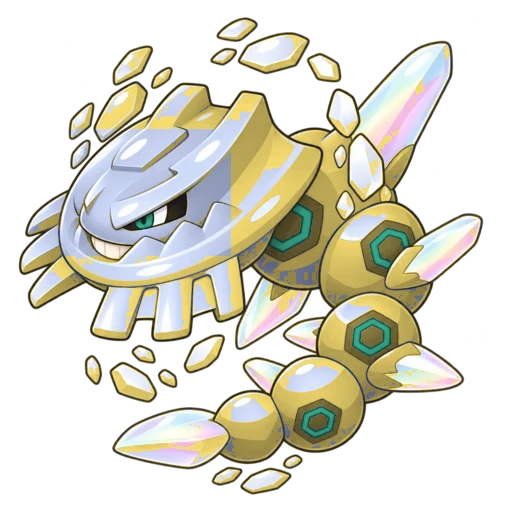
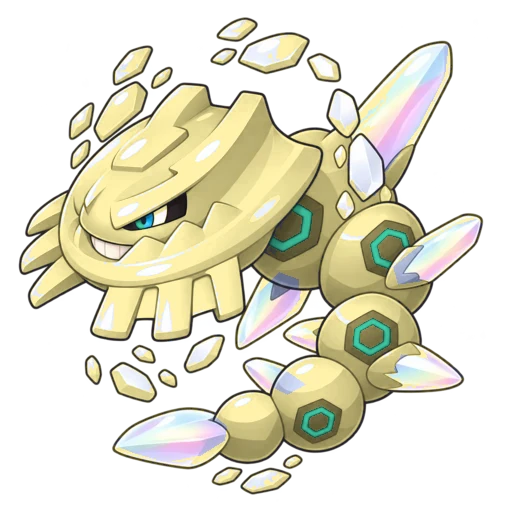
Correct Steelix and Mega Steelix Shiny gold palettes without changing their approved drawings

diff --git a/app.js b/app.js
@@ -1,31 +1,31 @@
-import {questsView,questPreview,questStates,questSummary,pinQuest} from './quests.js?v=20261111-shiny29';
-import {guildView,normalizeGuild,guildLevel,contributeGuild,selectExpedition} from './guild.js?v=20261111-shiny29';
-import {arenaView,arenaRank} from './arena.js?v=20261111-shiny29';
-import {worldEventPanel,eventCountdown,currentEvent} from './world-events.js?v=20261111-shiny29';
-import {huntingPanel,setHuntTarget} from './hunting.js?v=20261111-shiny29';
-import {expandedSpecies} from './engine-data.js?v=20261111-shiny29';
-import {researchScore,researchReady,researchPanel,journalSummary,normalizeResearch} from './journal.js?v=20261111-shiny29';
-import {masteryPanel,masteryProgress,bondStyle,chooseBondStyle,companionTitle} from './mastery.js?v=20261111-shiny29';
-import {appStatus,installApp,applyAppUpdate,installPanel} from './pwa.js?v=20261111-shiny29';
-import {artworkEntries,galleryEntries,chibiLabel,resetItemsAndGold} from './developer-tools.js?v=20261111-shiny29';
-import {chibiSprite} from './chibi-art.js?v=20261111-shiny29';
-import {battleForms,formsFor,displayCreature,supportsGmax} from './forms.js?v=20261111-shiny29';
-import {trainerPortrait} from './trainer-portraits.js?v=20261111-shiny29';
-import {trainerOptions,normalizeTrainer,trainerName,presetTrainer} from './trainer-customization.js?v=20261111-shiny29';
-import {trainerEditor} from './trainer-editor.js?v=20261111-shiny29';
-import {inventoryView,abilityGuide} from './inventory-ui.js?v=20261111-shiny29';
-import {itemCatalog,abilityCatalog,ensureInventory,itemCount,addItem,buyItem,equipItem,currentHP,remainingPP,ppMaximum,itemContext,grantTestSupplies} from './items.js?v=20261111-shiny29';
-import {abilityOptions,validAbility,evolutionOptions,levelXP} from './progression.js?v=20261111-shiny29';
-import {fullCaptureChance,legacyBalls} from './capture.js?v=20261111-shiny29';
-import {statsFor,STAT_KEYS,STAT_LABELS,speciesRules,movesFor,learnedMoves,changeMove,battleStat,STRUGGLE,deferredMoves,typeMultiplier} from './rules.js?v=20261111-shiny29';
-import {zones,currentZone,locationAt,travel,areaGuide,areaKey} from './world.js?v=20261111-shiny29';
-import {buttonIcon,regionElement} from './button-art.js?v=20261111-shiny29';
-import {initTheme,themeChoices} from './theme.js?v=20261111-shiny29';
-import {mapView,ballIcon,playerArt} from './visuals.js?v=20261111-shiny29';
-import {spriteCandidates,bindSprite,turnMotion} from './artwork.js?v=20261111-shiny29';
-import {roster,get,map,signs,clues,colors,icons,events,weatherOptions,timeOptions,tools,achievementData} from './data.js?v=20261111-shiny29';
-import {fresh,claimAdventureQuest,claimGuildReward,claimArenaReward,claimJournalReward,claimHuntReward,PARTY_LIMIT,setLead,chooseStarter,step,huntOdds,huntConditions,load,persist,tick,toggleParty,toolCount,captureChance,claimQuest,masteryLevel,listings,buyListing,useInventoryItem,evolveCompanion,visitCenter,inspectWorldSite} from './core.js?v=20261111-shiny29';
-import {beginBattle,beginGymBattle,beginTrainerBattle,battleAction,maxHP,usableMoves,combatState,battleMoves} from './battle.js?v=20261111-shiny29';
+import {questsView,questPreview,questStates,questSummary,pinQuest} from './quests.js?v=20261111-steelix30';
+import {guildView,normalizeGuild,guildLevel,contributeGuild,selectExpedition} from './guild.js?v=20261111-steelix30';
+import {arenaView,arenaRank} from './arena.js?v=20261111-steelix30';
+import {worldEventPanel,eventCountdown,currentEvent} from './world-events.js?v=20261111-steelix30';
+import {huntingPanel,setHuntTarget} from './hunting.js?v=20261111-steelix30';
+import {expandedSpecies} from './engine-data.js?v=20261111-steelix30';
+import {researchScore,researchReady,researchPanel,journalSummary,normalizeResearch} from './journal.js?v=20261111-steelix30';
+import {masteryPanel,masteryProgress,bondStyle,chooseBondStyle,companionTitle} from './mastery.js?v=20261111-steelix30';
+import {appStatus,installApp,applyAppUpdate,installPanel} from './pwa.js?v=20261111-steelix30';
+import {artworkEntries,galleryEntries,chibiLabel,resetItemsAndGold} from './developer-tools.js?v=20261111-steelix30';
+import {chibiSprite} from './chibi-art.js?v=20261111-steelix30';
+import {battleForms,formsFor,displayCreature,supportsGmax} from './forms.js?v=20261111-steelix30';
+import {trainerPortrait} from './trainer-portraits.js?v=20261111-steelix30';
+import {trainerOptions,normalizeTrainer,trainerName,presetTrainer} from './trainer-customization.js?v=20261111-steelix30';
+import {trainerEditor} from './trainer-editor.js?v=20261111-steelix30';
+import {inventoryView,abilityGuide} from './inventory-ui.js?v=20261111-steelix30';
+import {itemCatalog,abilityCatalog,ensureInventory,itemCount,addItem,buyItem,equipItem,currentHP,remainingPP,ppMaximum,itemContext,grantTestSupplies} from './items.js?v=20261111-steelix30';
+import {abilityOptions,validAbility,evolutionOptions,levelXP} from './progression.js?v=20261111-steelix30';
+import {fullCaptureChance,legacyBalls} from './capture.js?v=20261111-steelix30';
+import {statsFor,STAT_KEYS,STAT_LABELS,speciesRules,movesFor,learnedMoves,changeMove,battleStat,STRUGGLE,deferredMoves,typeMultiplier} from './rules.js?v=20261111-steelix30';
+import {zones,currentZone,locationAt,travel,areaGuide,areaKey} from './world.js?v=20261111-steelix30';
+import {buttonIcon,regionElement} from './button-art.js?v=20261111-steelix30';
+import {initTheme,themeChoices} from './theme.js?v=20261111-steelix30';
+import {mapView,ballIcon,playerArt} from './visuals.js?v=20261111-steelix30';
+import {spriteCandidates,bindSprite,turnMotion} from './artwork.js?v=20261111-steelix30';
+import {roster,get,map,signs,clues,colors,icons,events,weatherOptions,timeOptions,tools,achievementData} from './data.js?v=20261111-steelix30';
+import {fresh,claimAdventureQuest,claimGuildReward,claimArenaReward,claimJournalReward,claimHuntReward,PARTY_LIMIT,setLead,chooseStarter,step,huntOdds,huntConditions,load,persist,tick,toggleParty,toolCount,captureChance,claimQuest,masteryLevel,listings,buyListing,useInventoryItem,evolveCompanion,visitCenter,inspectWorldSite} from './core.js?v=20261111-steelix30';
+import {beginBattle,beginGymBattle,beginTrainerBattle,battleAction,maxHP,usableMoves,combatState,battleMoves} from './battle.js?v=20261111-steelix30';
 const browserStorage={getItem:key=>localStorage.getItem(key),setItem:(key,value)=>localStorage.setItem(key,value)};
 const appearance=initTheme({storage:browserStorage,onChange:syncThemeControls});
 let save=load(browserStorage),page='Home',battle=null,selected=null,dexEntry=null,filter={search:'',type:'',variant:'',rarity:'',size:'',sort:''},tool=0,noticeTimer,busy=false,arenaTab='',questFilter='all',region='Greenwood',lastFocus=null,result=null,positionFrom=null;

diff --git a/inventory-ui.js b/inventory-ui.js
@@ -1,6 +1,6 @@
-import {itemCatalog,abilityCatalog,ITEM_CATEGORIES,itemCount,itemContext,currentHP,tmCompatible} from './items.js?v=20261111-shiny29';
-import {expandedSpecies} from './engine-data.js?v=20261111-shiny29';
-import {statsFor,STAT_KEYS,STAT_LABELS} from './rules.js?v=20261111-shiny29';
+import {itemCatalog,abilityCatalog,ITEM_CATEGORIES,itemCount,itemContext,currentHP,tmCompatible} from './items.js?v=20261111-steelix30';
+import {expandedSpecies} from './engine-data.js?v=20261111-steelix30';
+import {statsFor,STAT_KEYS,STAT_LABELS} from './rules.js?v=20261111-steelix30';
 const esc=v=>String(v??'').replace(/[&<>"']/g,c=>({'&':'&amp;','<':'&lt;','>':'&gt;','"':'&quot;',"'":'&#39;'}[c]));
 const icons={Balls:'◉',Medicine:'✚','Battle items':'⚔',Berries:'❧','Held items':'✦',TMs:'◎',Evolution:'⬡'};
 export function inventoryView(s,state,{shop=false}={}){const target=s.collection.find(c=>c.uid===state.target)||s.collection.find(c=>c.uid===s.party[0])||s.collection[0],query=(state.search||'').toLowerCase();const all=Object.values(itemCatalog).filter(i=>(shop||itemCount(s,i.id)>0)&&(state.category==='All'||!state.category||i.category===state.category)&&`${i.name} ${i.description}`.toLowerCase().includes(query)).sort((a,b)=>a.category.localeCompare(b.category)||a.name.localeCompare(b.name));const pages=Math.max(1,Math.ceil(all.length/24)),page=Math.max(0,Math.min(pages-1,state.page||0)),shown=all.slice(page*24,page*24+24);return `<section class="inventory-hub"><div class="inventory-tabs" role="group" aria-label="Item category">${ITEM_CATEGORIES.map(category=>`<button data-inv-category="${category}" class="${(state.category||'All')===category?'selected':''}" aria-pressed="${(state.category||'All')===category}">${category}</button>`).join('')}</div><div class="inventory-toolbar"><label>Search items<input id="inventory-search" value="${esc(state.search||'')}" placeholder="Search names or effects…" maxlength="100"></label><label>${shop?'Check compatibility with':'Use / give to'}<select id="inventory-target" aria-label="Item target">${s.collection.map(c=>`<option value="${c.uid}" ${c.uid===target?.uid?'selected':''}>${expandedSpecies[c.species].name} · Lv. ${c.level}</option>`).join('')}</select></label>${!shop?`<label>Move slot (TM / Ether / PP Up)<select id="inventory-slot" aria-label="Item move slot">${[0,1,2,3].map(i=>`<option value="${i}" ${state.slot===i?'selected':''}>Slot ${i+1}</option>`).join('')}</select></label><label>Hyper Training stat<select id="inventory-stat" aria-label="Hyper Training stat">${STAT_KEYS.map(k=>`<option value="${k}" ${state.stat===k?'selected':''}>${STAT_LABELS[k]}</option>`).join('')}</select></label>`:''}</div>${target&&!shop?`<div class="inventory-target-card"><strong>${expandedSpecies[target.species].name} · HP ${currentHP(target)} / ${statsFor(target).hp}${target.status?' · '+target.status:''}</strong><span>Held: ${itemCatalog[target.heldItem]?.name||'Nothing'}</span>${target.heldItem?`<button data-unequip-item="${target.uid}" class="secondary">Return held item to bag</button>`:''}</div>`:''}<div class="spread inventory-count"><small>${all.length} ${shop?'catalogue entries':'owned item types'} · page ${page+1} / ${pages}</small><div><button data-inv-page="${page-1}" ${page===0?'disabled':''} aria-label="Previous items">←</button><button data-inv-page="${page+1}" ${page>=pages-1?'disabled':''} aria-label="Next items">→</button></div></div><div class="item-grid">${shown.map(item=>{const context=itemContext(item),owned=itemCount(s,item.id),compatible=item.category==='TMs'&&target?tmCompatible(target,item.id):true;return `<article class="item-card"><div class="spread"><span class="item-glyph" data-item-category="${item.category}" aria-hidden="true">${icons[item.category]}</span><small>${item.category}</small></div><h3>${esc(item.name)}</h3><p>${esc(item.description||'Used with its matching species or game context.')}</p>${context?`<p class="item-context">${esc(context)}</p>`:item.category==='TMs'?`<small class="item-compatibility">${compatible?'✓ Compatible':'Not compatible'} with ${target?expandedSpecies[target.species].name:'selected Pokémon'}</small>`:item.legacy?'<small>Legacy item · effects depend on the matching battle context.</small>':''}<div class="item-card-actions"><small>Owned: ${owned}</small>${shop?`<button class="secondary" data-purchase-item="${item.id}" ${context||s.coins<item.cost?'disabled':''}>Buy · ${item.cost.toLocaleString()} coins</button>`:`${['Medicine','Berries','TMs','Evolution'].includes(item.category)?`<button class="secondary" data-use-item="${item.id}" ${context||!compatible?'disabled':''}>${item.category==='TMs'?'Teach move':item.category==='Evolution'?'Use evolution item':'Use'}</button>`:''}${item.holdable?`<button class="secondary" data-give-item="${item.id}" ${context?'disabled':''}>Give to hold</button>`:''}${item.category==='Battle items'||item.category==='Balls'?'<small>Choose from the battle bag during an encounter.</small>':''}`}</div></article>`}).join('')||'<div class="empty-state"><h3>No matching items.</h3><p>Try another category or visit Market.</p></div>'}</div></section>`}

diff --git a/core.js b/core.js
@@ -1,18 +1,18 @@
-import {normalizeQuests,collectQuestReward} from './quests.js?v=20261111-shiny29';
-import {normalizeGuild,earnGuildPoints,collectGuildReward} from './guild.js?v=20261111-shiny29';
-import {normalizeArena,collectArenaReward} from './arena.js?v=20261111-shiny29';
-import {eventWeight,eventVisitors,eventStepBonus,WORLD_PERIOD} from './world-events.js?v=20261111-shiny29';
-import {normalizeHunts,activeHunt,targetHuntOdds,discoverHuntClue,recordHuntCapture,collectHuntReward} from './hunting.js?v=20261111-shiny29';
-import {normalizeResearch,observeResearch,collectResearchReward} from './journal.js?v=20261111-shiny29';
-import {masteryRank} from './mastery.js?v=20261111-shiny29';
-import {defaultTrainer,normalizeTrainer,trainerName} from './trainer-customization.js?v=20261111-shiny29';
-import {expandedSpecies,abilityCatalog} from './engine-data.js?v=20261111-shiny29';
-import {ensureInventory,itemCount,spendItem,addItem,healParty,useBagItem,evolveByLevel} from './items.js?v=20261111-shiny29';
-import {validAbility,abilityOptions,toID,migrateXP,addExperience} from './progression.js?v=20261111-shiny29';
-import {defaultMoveIds,moveIds} from './rules.js?v=20261111-shiny29';
-import {zones,currentZone,zoneByName,discoverLocation,zoneSpecies,normalizeAreas,areaKey,locationAt} from './world.js?v=20261111-shiny29';
-import {roster,get,map,signs,clues,events,starterRosterIds,explorationSpeciesIds} from './data.js?v=20261111-shiny29';
-export {roster,get,map,signs,clues} from './data.js?v=20261111-shiny29';
+import {normalizeQuests,collectQuestReward} from './quests.js?v=20261111-steelix30';
+import {normalizeGuild,earnGuildPoints,collectGuildReward} from './guild.js?v=20261111-steelix30';
+import {normalizeArena,collectArenaReward} from './arena.js?v=20261111-steelix30';
+import {eventWeight,eventVisitors,eventStepBonus,WORLD_PERIOD} from './world-events.js?v=20261111-steelix30';
+import {normalizeHunts,activeHunt,targetHuntOdds,discoverHuntClue,recordHuntCapture,collectHuntReward} from './hunting.js?v=20261111-steelix30';
+import {normalizeResearch,observeResearch,collectResearchReward} from './journal.js?v=20261111-steelix30';
+import {masteryRank} from './mastery.js?v=20261111-steelix30';
+import {defaultTrainer,normalizeTrainer,trainerName} from './trainer-customization.js?v=20261111-steelix30';
+import {expandedSpecies,abilityCatalog} from './engine-data.js?v=20261111-steelix30';
+import {ensureInventory,itemCount,spendItem,addItem,healParty,useBagItem,evolveByLevel} from './items.js?v=20261111-steelix30';
+import {validAbility,abilityOptions,toID,migrateXP,addExperience} from './progression.js?v=20261111-steelix30';
+import {defaultMoveIds,moveIds} from './rules.js?v=20261111-steelix30';
+import {zones,currentZone,zoneByName,discoverLocation,zoneSpecies,normalizeAreas,areaKey,locationAt} from './world.js?v=20261111-steelix30';
+import {roster,get,map,signs,clues,events,starterRosterIds,explorationSpeciesIds} from './data.js?v=20261111-steelix30';
+export {roster,get,map,signs,clues} from './data.js?v=20261111-steelix30';
 export const PARTY_LIMIT=6;
 const pick=(a,r=Math.random)=>a[Math.floor(r()*a.length)];
 export function createCreature(id,level=5,random=Math.random){const c={uid:globalThis.crypto.randomUUID(),species:id,level,variant:random()<.05?'Shiny':'Normal',nature:pick(['Calm','Bold','Timid','Hardy'],random),size:pick(['Small','Average','Large'],random),trait:pick(['Alert','Resilient','Keen-eyed'],random),mastery:0,xp:0,xpRules:'canonical-v1',friendship:expandedSpecies[id]?.friendship??50,ability:toID(expandedSpecies[id]?.abilities['0']),heldItem:null,gigantamax:false,dynamaxLevel:0,evs:{},ivs:{},ppRemaining:{},ppUps:{},knownTM:[],currentHP:null,status:'',gender:expandedSpecies[id]?.gender||((random()<(expandedSpecies[id]?.genderRatio?.F??.5))?'F':'M'),caughtAt:new Date().toISOString(),location:'Greenwood'};const options=abilityOptions(c),hidden=options.find(a=>a.slot==='H'),normal=options.filter(a=>a.slot!=='H');c.ability=(hidden&&random()<.05?hidden:normal[Math.min(normal.length-1,Math.floor(random()*normal.length))])?.id||validAbility(c);c.moves=defaultMoveIds(c);return c}

diff --git a/trainer-editor.js b/trainer-editor.js
@@ -1,4 +1,4 @@
-import {trainerOptions,normalizeTrainer,trainerSVG,presetTrainer} from './trainer-customization.js?v=20261111-shiny29';
+import {trainerOptions,normalizeTrainer,trainerSVG,presetTrainer} from './trainer-customization.js?v=20261111-steelix30';
 const esc=v=>String(v??'').replace(/[&<>"']/g,c=>({'&':'&amp;','<':'&lt;','>':'&gt;','"':'&quot;',"'":'&#39;'}[c]));
 export function trainerEditor(draft){const a=normalizeTrainer(draft.appearance);const select=(key,label)=>`<label>${label}<select id="trainer-${key}" data-trainer-option="${key}">${trainerOptions[key].map(([id,name])=>`<option value="${id}" ${a[key]===id?'selected':''}>${name}</option>`).join('')}</select></label>`;const swatches=(key,label)=>`<fieldset class="trainer-swatches"><legend>${label}</legend>${trainerOptions[key].map(([id,name,hex])=>`<button type="button" data-trainer-swatch="${key}:${id}" aria-label="${label}: ${name}" title="${name}" aria-pressed="${a[key]===id}" class="${a[key]===id?'selected':''}" style="--swatch:${hex}"><span aria-hidden="true">${a[key]===id?'✓':''}</span><small>${name}</small></button>`).join('')}</fieldset>`;
 return `<div class="overlay trainer-editor-overlay" id="trainer-editor-overlay"><section class="modal trainer-editor" role="dialog" aria-modal="true" aria-labelledby="trainer-editor-title"><div class="dialog-topbar"><div><div class="eyebrow">YOUR JOURNEY · YOUR LOOK</div><h2 id="trainer-editor-title">Make it your adventure.</h2></div><button id="close-trainer" class="close" type="button" aria-label="Close trainer customisation">×</button></div><p>The classic explorer design, with your own colours. All options are free.</p><div class="trainer-editor-layout"><aside class="trainer-live-preview"><div class="trainer-preview-stage">${trainerSVG(a)}</div><h3 id="trainer-preview-name">${esc(draft.name||'Your trainer')}</h3><small>Live preview</small><div class="trainer-turnaround">${['down','left','right','up'].map(d=>`<div>${trainerSVG(a,d)}<small>${{down:'Front',left:'Left',right:'Right',up:'Back'}[d]}</small></div>`).join('')}</div></aside><div class="trainer-editor-controls"><label>Trainer name<input id="trainer-name" maxlength="20" value="${esc(draft.name)}" autocomplete="off" placeholder="Your name"></label><small>1–20 characters · letters, numbers, spaces, apostrophes and hyphens.</small><div class="trainer-selects">${select('gender','Trainer style')}${select('outfit','Colour preset')}</div>${swatches('skin','Skin tone')}${swatches('hair','Hair colour')}${swatches('color','Outfit colour')}</div></div><h3>Quick presets</h3><div class="trainer-presets">${trainerOptions.gender.flatMap(([gender,label])=>trainerOptions.outfit.map(([outfit,name])=>`<button type="button" data-trainer-preset="${gender}:${outfit}" aria-pressed="${a.gender===gender&&a.outfit===outfit&&a.color===presetTrainer(gender,outfit,a).color}" class="${a.gender===gender&&a.outfit===outfit&&a.color===presetTrainer(gender,outfit,a).color?'selected':''}">${trainerSVG(presetTrainer(gender,outfit,a))}<strong>${label}</strong><small>${name}</small></button>`)).join('')}</div><div class="trainer-editor-actions"><button type="button" id="cancel-trainer" class="secondary">Cancel</button><button type="button" id="save-trainer" class="primary">Save trainer</button></div><p class="hint">Your look appears on the map and profile. Customisation has no effect on battle strength.</p></section></div>`}

diff --git a/index.html b/index.html
@@ -1,1 +1,1 @@
-<!doctype html><html lang="en"><head><meta charset="utf-8"><meta name="viewport" content="width=device-width,initial-scale=1,viewport-fit=cover"><meta name="theme-color" content="#101c22"><link rel="manifest" href="manifest.webmanifest"><link rel="apple-touch-icon" href="assets/app/apple-touch-icon.png"><meta name="apple-mobile-web-app-capable" content="yes"><meta name="apple-mobile-web-app-status-bar-style" content="default"><title>Greenwood · Pokémon gameplay prototype</title><script>(function(){var p='system';try{p=localStorage.getItem('greenwood.theme.v1')||'system'}catch(e){}var m=window.matchMedia&&window.matchMedia('(prefers-color-scheme: dark)').matches;var d=p==='dark'||(p!=='light'&&m);document.documentElement.dataset.theme=d?'dark':'light';document.documentElement.style.colorScheme=d?'dark':'light'})()</script><link rel="stylesheet" href="style.css"><link rel="stylesheet" href="polish.css"><link rel="stylesheet" href="theme.css?v=20261111-shiny29"><link rel="stylesheet" href="buttons.css"><link rel="stylesheet" href="trainer.css?v=20261111-shiny29"><link rel="stylesheet" href="world.css?v=20261111-shiny29"><link rel="stylesheet" href="combat.css?v=20261111-shiny29"><link rel="stylesheet" href="inventory.css?v=20261111-shiny29"></head><body><div id="app"><div role="status" style="padding:3rem;font-family:system-ui;color:#dce8df;background:#14242a;min-height:100vh">Preparing your adventure…</div></div><div id="notice" role="status"></div><script type="module" src="app.js?v=20261111-shiny29"></script></body></html>
+<!doctype html><html lang="en"><head><meta charset="utf-8"><meta name="viewport" content="width=device-width,initial-scale=1,viewport-fit=cover"><meta name="theme-color" content="#101c22"><link rel="manifest" href="manifest.webmanifest"><link rel="apple-touch-icon" href="assets/app/apple-touch-icon.png"><meta name="apple-mobile-web-app-capable" content="yes"><meta name="apple-mobile-web-app-status-bar-style" content="default"><title>Greenwood · Pokémon gameplay prototype</title><script>(function(){var p='system';try{p=localStorage.getItem('greenwood.theme.v1')||'system'}catch(e){}var m=window.matchMedia&&window.matchMedia('(prefers-color-scheme: dark)').matches;var d=p==='dark'||(p!=='light'&&m);document.documentElement.dataset.theme=d?'dark':'light';document.documentElement.style.colorScheme=d?'dark':'light'})()</script><link rel="stylesheet" href="style.css"><link rel="stylesheet" href="polish.css"><link rel="stylesheet" href="theme.css?v=20261111-steelix30"><link rel="stylesheet" href="buttons.css"><link rel="stylesheet" href="trainer.css?v=20261111-steelix30"><link rel="stylesheet" href="world.css?v=20261111-steelix30"><link rel="stylesheet" href="combat.css?v=20261111-steelix30"><link rel="stylesheet" href="inventory.css?v=20261111-steelix30"></head><body><div id="app"><div role="status" style="padding:3rem;font-family:system-ui;color:#dce8df;background:#14242a;min-height:100vh">Preparing your adventure…</div></div><div id="notice" role="status"></div><script type="module" src="app.js?v=20261111-steelix30"></script></body></html>

diff --git a/visuals.js b/visuals.js
@@ -1,12 +1,12 @@
-import {sceneryLayer,gymBuilding} from './world-scenery.js?v=20261111-shiny29';
-import {huntClueAt} from './hunting.js?v=20261111-shiny29';
-import {chibiSprite} from './chibi-art.js?v=20261111-shiny29';
-import {trainerPortrait} from './trainer-portraits.js?v=20261111-shiny29';
-import {trainerSVG} from './trainer-customization.js?v=20261111-shiny29';
-import {spriteCandidates} from './artwork.js?v=20261111-shiny29';
-import {get,icons} from './data.js?v=20261111-shiny29';
-import {zones,currentZone} from './world.js?v=20261111-shiny29';
-import {map,signs} from './data.js?v=20261111-shiny29';
+import {sceneryLayer,gymBuilding} from './world-scenery.js?v=20261111-steelix30';
+import {huntClueAt} from './hunting.js?v=20261111-steelix30';
+import {chibiSprite} from './chibi-art.js?v=20261111-steelix30';
+import {trainerPortrait} from './trainer-portraits.js?v=20261111-steelix30';
+import {trainerSVG} from './trainer-customization.js?v=20261111-steelix30';
+import {spriteCandidates} from './artwork.js?v=20261111-steelix30';
+import {get,icons} from './data.js?v=20261111-steelix30';
+import {zones,currentZone} from './world.js?v=20261111-steelix30';
+import {map,signs} from './data.js?v=20261111-steelix30';
 const rng=n=>{let value=n+31;return ()=>{value=(value*1664525+1013904223)>>>0;return value/4294967296}};
 function tree(x,y,scale=1,seed=0){const r=rng(seed),leaves=Array.from({length:13},(_,i)=>{const a=i*2.4,d=8+r()*20,cx=Math.cos(a)*d,cy=Math.sin(a)*d*.65;return `<path d="M${cx-10} ${cy-9}h16l8 8-3 12-16 4-12-8 1-9Z" fill="${['#335e3c','#477748','#5d8e4f','#3f7041'][i%4]}"/><path d="M${cx-6} ${cy-6}h9l3 3h-10Z" fill="#8bad6233"/>`}).join('');return `<g transform="translate(${x} ${y}) scale(${scale})"><ellipse cy="20" rx="35" ry="15" fill="#102b2370"/><path d="M-7 3h14v34l-8 6-13-6 7-12Z" fill="#66543a"/><path d="M-1 12h5v22l-5 3Z" fill="#957752"/><g transform="translate(0 -12)"><path d="M-30-15l20-19 28 5 17 22-5 24-31 12-29-13Z" fill="#244c35"/>${leaves}</g></g>`}
 function rock(x,y,scale=1){return `<g transform="translate(${x} ${y}) scale(${scale})"><ellipse cy="15" rx="25" ry="12" fill="#132e2540"/><path d="M-25 8l6-23 21-9 23 17 2 23-25 9Z" fill="#718576"/><path d="M-19-15l21-9 23 17-25 5Z" fill="#9ca98b"/><path d="M0-2v24l27-6-2-23Z" fill="#607368"/><path d="M-22 5l7-4 5 3-2 5-9 2Z" fill="#4f774b"/></g>`}

diff --git a/battle.js b/battle.js
@@ -1,13 +1,13 @@
-import {earnGuildPoints} from './guild.js?v=20261111-shiny29';
-import {arenaOpponent,settleArena,arenaResultText} from './arena.js?v=20261111-shiny29';
-import {awardEVs,addExperience,validAbility} from './progression.js?v=20261111-shiny29';
-import {currentZone,trainerAt,returnToCenter} from './world.js?v=20261111-shiny29';
-import {createCreature,catchCreature,award,grow,updateAchievements,record} from './core.js?v=20261111-shiny29';
-import {statsFor,movesFor,moveCatalog,gameMoveId} from './rules.js?v=20261111-shiny29';
-import {abilityCatalog,expandedSpecies} from './engine-data.js?v=20261111-shiny29';
-import {ensureInventory,itemCount,spendItem,addItem,applyMedicine,itemCatalog,healParty,currentHP,itemContext,ppMaximum} from './items.js?v=20261111-shiny29';
-import {createSimulation,restoreSimulation,synchronize,settleSwitches,commitTurn,applyBattleMedicine,pokemonFor,Dex} from './sim-adapter.js?v=20261111-shiny29';
-import {fullCaptureChance,legacyBalls} from './capture.js?v=20261111-shiny29';
+import {earnGuildPoints} from './guild.js?v=20261111-steelix30';
+import {arenaOpponent,settleArena,arenaResultText} from './arena.js?v=20261111-steelix30';
+import {awardEVs,addExperience,validAbility} from './progression.js?v=20261111-steelix30';
+import {currentZone,trainerAt,returnToCenter} from './world.js?v=20261111-steelix30';
+import {createCreature,catchCreature,award,grow,updateAchievements,record} from './core.js?v=20261111-steelix30';
+import {statsFor,movesFor,moveCatalog,gameMoveId} from './rules.js?v=20261111-steelix30';
+import {abilityCatalog,expandedSpecies} from './engine-data.js?v=20261111-steelix30';
+import {ensureInventory,itemCount,spendItem,addItem,applyMedicine,itemCatalog,healParty,currentHP,itemContext,ppMaximum} from './items.js?v=20261111-steelix30';
+import {createSimulation,restoreSimulation,synchronize,settleSwitches,commitTurn,applyBattleMedicine,pokemonFor,Dex} from './sim-adapter.js?v=20261111-steelix30';
+import {fullCaptureChance,legacyBalls} from './capture.js?v=20261111-steelix30';
 export const maxHP=c=>statsFor(c).hp;
 export const combatState=(b,c)=>b.states[c.uid]||{};
 export const battleMoves=(b,c)=>c.uid===b.active?b.moveChoices||[]:movesFor(c);

diff --git a/data.js b/data.js
@@ -1,6 +1,6 @@
-import {expandedSpecies} from './engine-data.js?v=20261111-shiny29';
-import {officialSpecies} from './combat-data.js?v=20261111-shiny29';
-import {zones} from './world.js?v=20261111-shiny29';
+import {expandedSpecies} from './engine-data.js?v=20261111-steelix30';
+import {officialSpecies} from './combat-data.js?v=20261111-steelix30';
+import {zones} from './world.js?v=20261111-steelix30';
 // Static species data and encounter configuration. No network is required.
 export const roster = [
   ['bulbasaur',1,'Bulbasaur','Grass',45,49,49,45,'Common','A quiet woodland partner that thrives in the morning rain.','Forest','Morning','Rain','Overgrow'],
@@ -33,7 +33,7 @@ export const signs={'3,3':0,'6,4':1,'3,6':2};
 export const clues=['Dratini has been spotted along the eastern shoreline. Search east of column 5.','Rain brings it out of hiding. Return when rain falls.','It surfaces at dusk. Watch the water as daylight fades.'];
 export const weatherOptions=['Clear','Rain','Storm','Fog'];
 export const timeOptions=['Morning','Day','Dusk','Night'];
-export {worldEvents as events} from './world-events.js?v=20261111-shiny29';
+export {worldEvents as events} from './world-events.js?v=20261111-steelix30';
 export const tools=[{name:'Poké Ball',price:150,count:10,bonus:0},{name:'Great Ball',price:240,count:5,bonus:.18},{name:'Ultra Ball',price:300,count:3,bonus:.35}];
 export const achievementData=[['first-catch','First catch','Catch a Pokémon beyond your starter.'],['first-steps','Trailblazer','Explore 10 tiles.'],['research','Field researcher','See 8 different species.'],['hunter','Follow the signs','Discover all three Dratini clues.'],['collector','Collector 10','Own 10 individuals.'],['shiny','A different sparkle','Catch a Shiny Pokémon.'],['arena','Arena initiate','Win an AI arena match.'],['mastery','Old friends','Reach Mastery III.'],['dratini','Patient hunter','Catch Dratini.'],['battler','Finding your rhythm','Win 5 battles.']];
 export const masteryRewards=['Profile badge','Passive insight','Ability insight','Cosmetic aura','Companion title'];

diff --git a/capture.js b/capture.js
@@ -1,4 +1,4 @@
-import {expandedSpecies} from './engine-data.js?v=20261111-shiny29';
+import {expandedSpecies} from './engine-data.js?v=20261111-steelix30';
 export const legacyBalls=['pokeball','greatball','ultraball'];
 export function ballModifier(s,b,id){const p=s.collection.find(c=>c.uid===b.active),w=b.wild,meta=expandedSpecies[w.species],types=b.states?.[w.uid]?.types||meta.types,turn=(b.turn||0)+1;switch(id){case'masterball':return Infinity;case'greatball':return 1.5;case'ultraball':return 2;case'netball':return types.some(t=>t==='Water'||t==='Bug')?3.5:1;case'nestball':return Math.max(1,(41-w.level)/10);case'repeatball':return s.dex[w.species]?.caught?3.5:1;case'timerball':return Math.min(4,1+.3*(turn-1));case'diveball':return b.underwater?3.5:1;case'duskball':return b.cave||['Dusk','Night'].includes(s.time)?3:1;case'quickball':return turn===1?5:1;case'dreamball':return b.status==='sleep'?4:1;case'fastball':return meta.baseStats.speed>=100?4:1;case'levelball':return p.level>=w.level*4?8:p.level>=w.level*2?4:p.level>w.level?2:1;case'loveball':return p.species===w.species&&p.gender&&w.gender&&p.gender!==w.gender&&p.gender!=='N'&&w.gender!=='N'?8:1;case'lureball':return b.fishing?4:1;case'moonball':return meta.evos.some(e=>expandedSpecies[e].evoItem==='Moon Stone')?4:1;case'beastball':return meta.tags?.includes('Ultra Beast')?5:.1;case'safariball':case'sportball':return 1.5;default:return 1}}
 export function fullCaptureChance(s,b,id='pokeball'){if(id==='masterball')return 1;const wild=b.wild,meta=expandedSpecies[wild.species];let rate=meta.catchRate||45;if(id==='heavyball'){const weight=b.states?.[wild.uid]?.weight??meta.weight;rate=Math.max(1,Math.min(255,rate+(weight>=300?30:weight>=200?20:weight<100?-20:0)))}const status=['sleep','freeze'].includes(b.status)?2.5:b.status?1.5:1;const a=(3*b.max-2*Math.max(1,b.hp))*rate*ballModifier(s,b,id)/(3*b.max)*status;return Math.max(0,Math.min(1,a/255))}

diff --git a/chibi-art.js b/chibi-art.js
@@ -1,2 +1,2 @@
-import {chibiAtlas,shinyChibiAtlas} from './chibi-sources.js?v=20261111-shiny29';
-export function chibiSprite(c){const cell=(c.variant==='Shiny'?shinyChibiAtlas:chibiAtlas)[c.form||c.species];if(!cell)return '';const columns=cell.columns||6,rows=cell.rows||4,col=cell.index%columns,row=Math.floor(cell.index/columns);return `<svg class="sprite chibi-sheet-sprite" data-chibi-source="${cell.sheet}" viewBox="0 0 200 200" aria-hidden="true" xmlns="http://www.w3.org/2000/svg"><svg width="200" height="200" viewBox="0 0 200 200" overflow="hidden"><image href="${cell.sheet}" x="${-col*200}" y="${-row*200}" width="${columns*200}" height="${rows*200}" preserveAspectRatio="none"/></svg></svg>`}
+import {chibiAtlas,shinyChibiAtlas} from './chibi-sources.js?v=20261111-steelix30';
+export function chibiSprite(c){const cell=(c.variant==='Shiny'?shinyChibiAtlas:chibiAtlas)[c.form||c.species];if(!cell)return '';const columns=cell.columns||6,rows=cell.rows||4,col=cell.index%columns,row=Math.floor(cell.index/columns);return `<svg class="sprite chibi-sheet-sprite" data-chibi-source="${cell.sheet}" viewBox="0 0 200 200" aria-hidden="true" xmlns="http://www.w3.org/2000/svg"><svg width="200" height="200" viewBox="0 0 200 200" overflow="hidden"><image href="${cell.sheet}?v=20261111-steelix30" x="${-col*200}" y="${-row*200}" width="${columns*200}" height="${rows*200}" preserveAspectRatio="none"/></svg></svg>`}

diff --git a/developer-tools.js b/developer-tools.js
@@ -1,7 +1,7 @@
-import {roster} from './data.js?v=20261111-shiny29';
-import {battleForms} from './forms.js?v=20261111-shiny29';
-import {syncLegacy} from './items.js?v=20261111-shiny29';
-import {chibiAtlas,shinyChibiAtlas} from './chibi-sources.js?v=20261111-shiny29';
+import {roster} from './data.js?v=20261111-steelix30';
+import {battleForms} from './forms.js?v=20261111-steelix30';
+import {syncLegacy} from './items.js?v=20261111-steelix30';
+import {chibiAtlas,shinyChibiAtlas} from './chibi-sources.js?v=20261111-steelix30';
 export const artworkEntries=[...roster.map(s=>({id:s.id,name:s.name,species:s.id,kind:'species'})),...Object.values(battleForms).map(f=>({id:f.id,name:f.name,species:f.base,form:f.id,kind:f.kind}))];
 export function galleryEntries({search='',kind='all'}={}){const words=search.trim().toLowerCase().split(/\s+/).filter(Boolean);return artworkEntries.filter(e=>(kind==='all'||e.kind===kind)&&words.every(w=>e.name.toLowerCase().replace(/-/g,' ').includes(w)))}
 export function chibiLabel(entry,variant='Normal'){return variant==='Normal'&&(chibiAtlas[entry.id]||roster.slice(0,18).some(p=>p.id===entry.id))||variant==='Shiny'&&(shinyChibiAtlas[entry.id]||roster.slice(0,18).some(p=>p.id===entry.id))?'Painted chibi':'Pixel chibi · official game sprite'}

diff --git a/quests.js b/quests.js
@@ -1,8 +1,8 @@
 // Permanent, retrospective goals. A future backend should validate and claim atomically.
-import {masteryRank} from './mastery.js?v=20261111-shiny29';
-import {normalizeResearch} from './journal.js?v=20261111-shiny29';
-import {huntCatalog,huntNotes,normalizeHunts} from './hunting.js?v=20261111-shiny29';
-import {normalizeGuild} from './guild.js?v=20261111-shiny29';
+import {masteryRank} from './mastery.js?v=20261111-steelix30';
+import {normalizeResearch} from './journal.js?v=20261111-steelix30';
+import {huntCatalog,huntNotes,normalizeHunts} from './hunting.js?v=20261111-steelix30';
+import {normalizeGuild} from './guild.js?v=20261111-steelix30';
 export const questCatalog=[
  {id:'first-steps',name:'A path of your own',category:'Getting started',metric:'steps',goal:10,description:'Walk 10 valid map steps.',hint:'Use the direction controls or WASD. Blocked water does not count.',destination:'Explore',coins:150,xp:50,items:[['pokeball',5,'Poké Balls']],requires:[]},
  {id:'curious',name:'A curious beginning',category:'Getting started',metric:'seen',goal:3,description:'Discover 3 different species.',hint:'Explore and encounter new species. Your existing discoveries count.',destination:'Explore',coins:150,xp:100,items:[],requires:[]},
